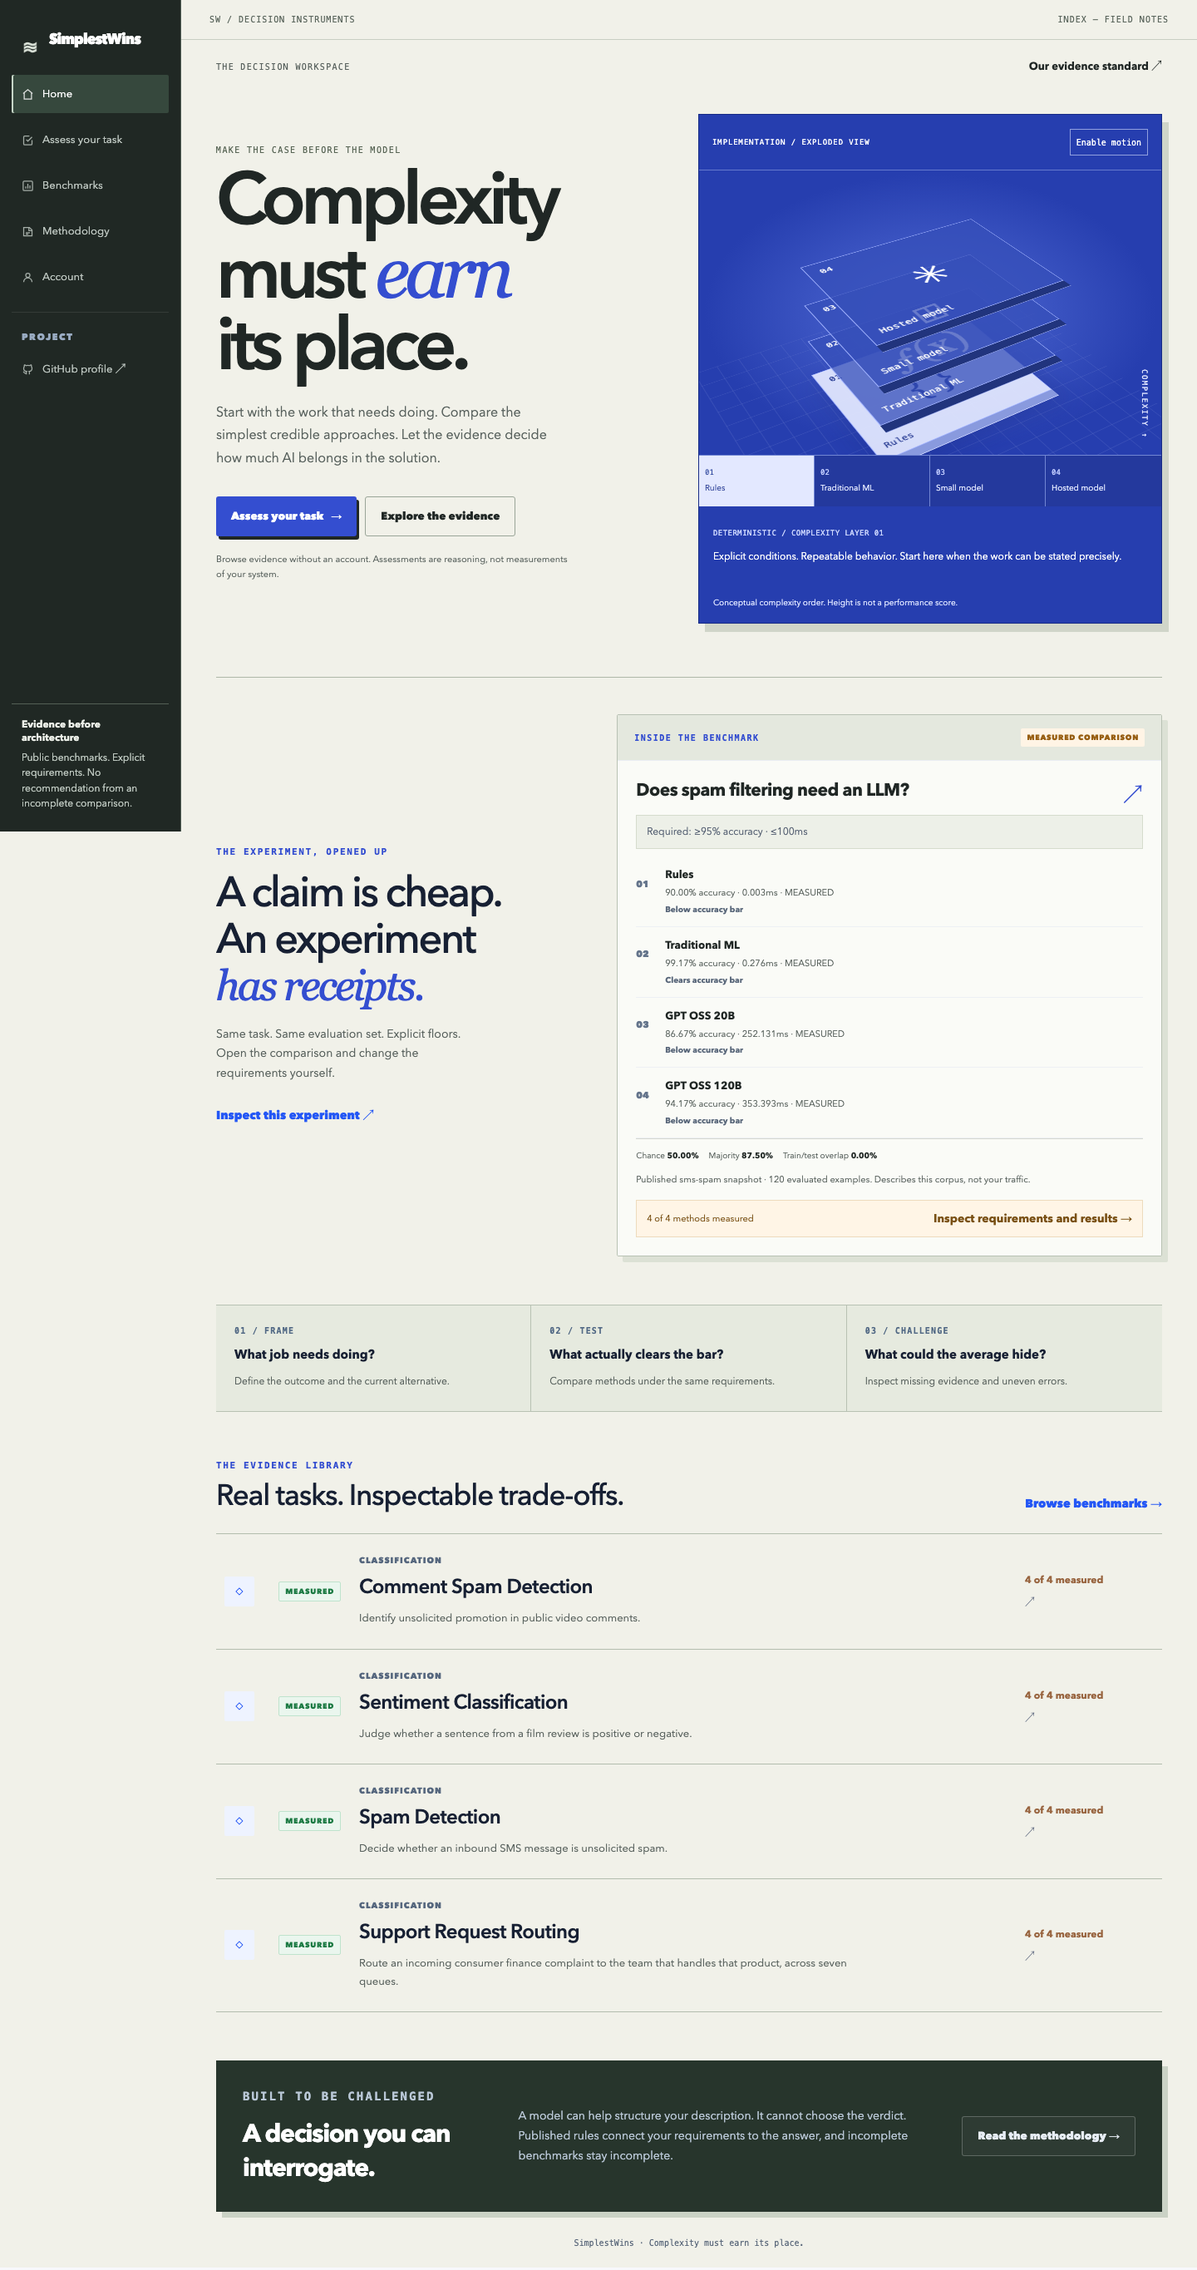
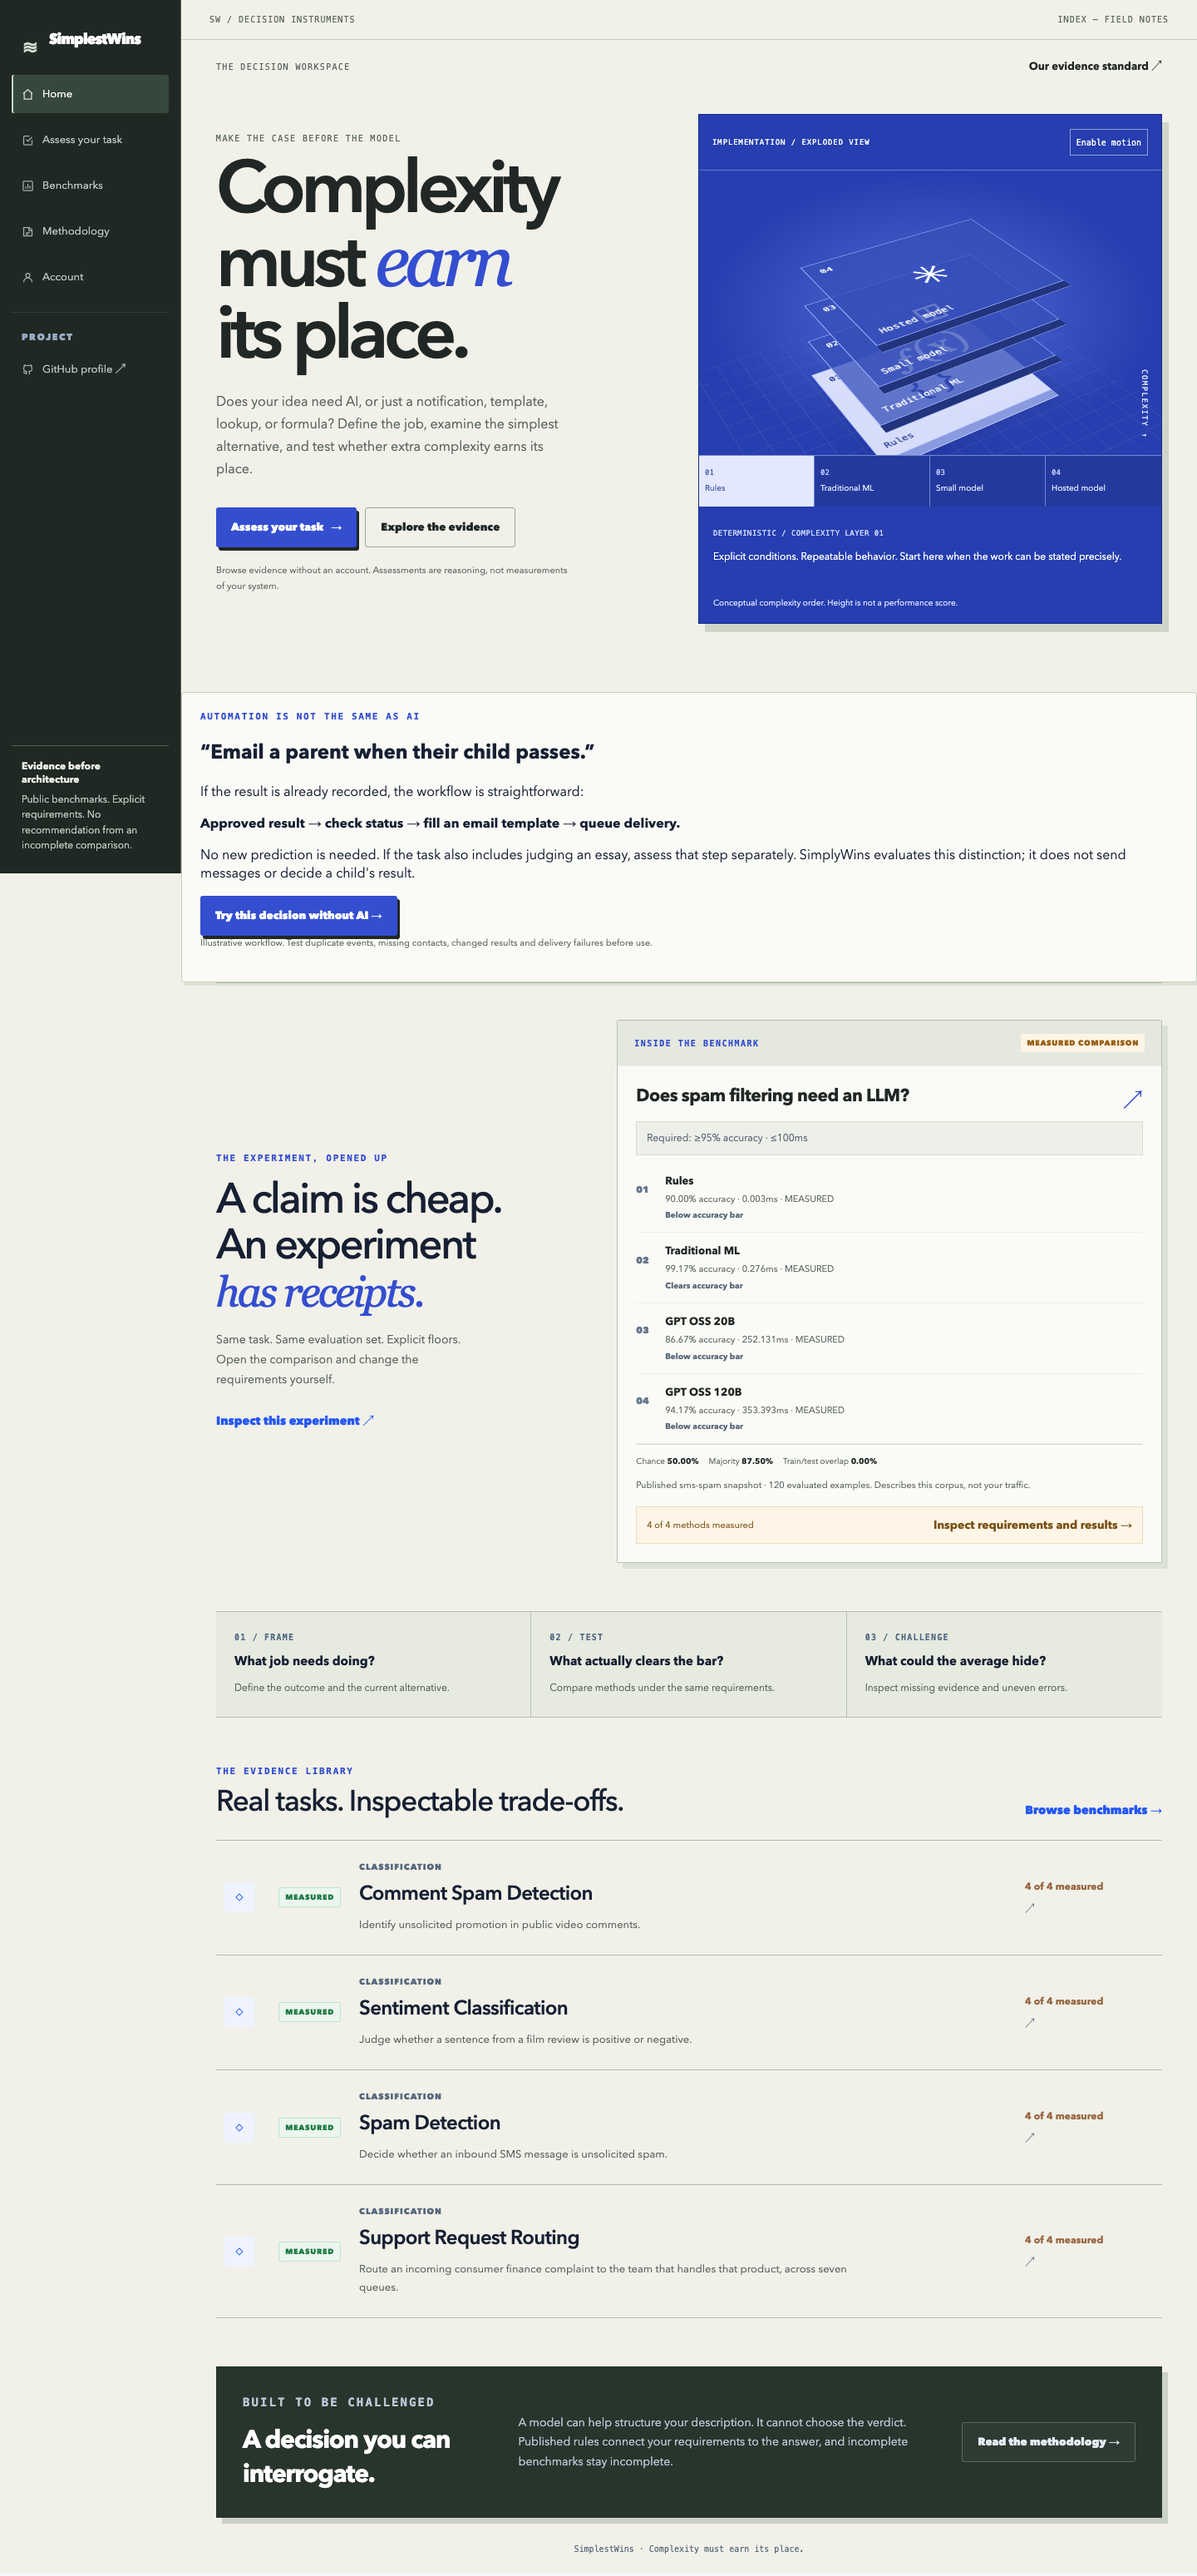
Show the automation-first purpose and verified assessment examples

diff --git a/WHAT_IT_DOES.md b/WHAT_IT_DOES.md
@@ -1,0 +1,64 @@
+# Does the job actually need AI?
+
+SimplyWins is a technology decision aid from an AI strategy project. State the
+outcome, what happens today, available inputs and a known procedure. A published
+rubric suggests the simplest starting approach and what to test. Its output is
+ASSESSED, not a measured guarantee or a business investment approval.
+
+| Job | Starting approach |
+| --- | --- |
+| Deliver an approved pass/fail result | Event, condition, approved template and delivery queue |
+| Retrieve a status by exact order ID | Database lookup, with an explicit not-found case |
+| Apply a stated formula | Ordinary code or a spreadsheet, with boundary tests |
+| Draft novel essay feedback | An AI experiment candidate, with teacher review |
+
+A workflow can combine these steps. Using AI for interpretation does not make
+notifications or record retrieval AI tasks. Keeping an existing working process
+is a baseline to beat. The app assesses the workflow; it does not execute it.
+
+## What changed
+
+Explicit notification, template, lookup and calculation choices prevent prose
+output or missing training labels alone from pushing a task toward an LLM.
+Editable examples work without a provider key. Each assessment explains a
+simpler alternative, assumptions, and baseline validation. Optional AI-assisted
+intake fills the same correctable profile and can still misread a description.
+
+Spam and sentiment benchmarks remain supporting classification experiments.
+Their scores cannot validate email delivery or establish that a visitor needs AI.
+See [benchmark evidence](BENCHMARKS.md) for the completed matched comparisons.
+
+## Research and open-source review
+
+- [Google Rules of ML](https://developers.google.com/machine-learning/guides/rules-of-ml/) motivates starting with a simple baseline.
+- [RAND's AI project study](https://www.rand.org/pubs/research_reports/RRA2680-1.html) motivates understanding the problem, data and workflow before choosing technology.
+- [Hidden Technical Debt in ML Systems](https://proceedings.neurips.cc/paper_files/paper/2015/hash/86df7dcfd896fcaf2674f757a2463eba-Abstract.html) motivates examining system maintenance beyond inference charges.
+- [Microsoft Human-AI Interaction guidance](https://www.microsoft.com/en-us/research/articles/guidelines-for-human-ai-interaction-eighteen-best-practices-for-human-centered-ai-design/) informs visible limits and correction paths.
+- [JsonLogic](https://github.com/jwadhams/json-logic-js), MIT, was independently exercised for a notification condition. [GoRules ZEN](https://github.com/gorules/zen), MIT core, was reviewed as a decision-table candidate. Neither is advertised as an integrated workflow executor.
+
+Course readings and meeting summaries informed the purpose. Private course
+materials are not distributed here. Research informs the design; it does not
+validate our rubric's thresholds or another organization's workflow.
+
+## What was tested
+
+Local CI and authored regression cases cover conventional procedures, missing
+labels, contradictory interpretation needs, format-check versus generation,
+and invariance to irrelevant names. The real key-free API and browser flow were
+checked on desktop and mobile, including ASSESSED labels and no unrelated
+benchmark attached.
+
+Real Groq mapping checks exposed an exact-identifier shape error that was
+corrected. Subsequent checks returned the expected lookup and feedback
+candidates; the notification returned conventional automation. Provider errors
+also occurred. These are smoke checks, not a measured reliability rate.
+
+The independent JsonLogic example checked approved, failed, missing, draft,
+duplicate, unverified-contact and incorrect-type inputs without sending a
+message. These authored cases are functional tests, not a measured corpus.
+
+Next: independent domain reviewers and held-out workflow examples, ambiguous
+hybrid tasks, false AI recommendations, missed useful AI opportunities, actual
+integration and review costs, and production account verification. Rules can
+encode unfair policy; no demographic fairness certification is claimed.
+See [release limitations](STATUS.md).

diff --git a/STATUS.md b/STATUS.md
@@ -4,7 +4,8 @@ Verified September 7, 2026.
 
 ## Ready to showcase
 
-- The refreshed frontend and API are deployed.
+- The automation-first frontend and API are deployed. Notification and exact-lookup examples return conventional automation; novel-feedback returns an AI experiment candidate. These key-free flows passed live desktop and mobile checks.
+- All published prediction artifacts were rechecked; fresh rules and traditional-ML runs reproduced their published accuracy.
 - All four benchmark tasks expose four measured methods through the live API.
 - Saved predictions reproduce every published aggregate accuracy; evaluation IDs, dataset versions, seeds, and floors were checked.
 - Local CI passed: lint, formatting, strict types, migration drift, backend tests, benchmark smoke run, responsive browser checks, and Firestore rules tests.
@@ -15,7 +16,7 @@ Verified September 7, 2026.
 
 1. Supply Firebase's public web configuration to the production frontend. Verify sign-in, saving a provider credential, quoting and running a private experiment, reading its result, and deleting the credential from a real browser session.
 2. Verify persistent storage, backups and restoration, operational monitoring, and error reporting. Test concurrency; long-running experiments need durable jobs and shared rate limits before scaling beyond the current bounded service.
-3. Validate quality on larger, independently held-out and out-of-domain data. Investigate complaint routing's failure to meet the default quality bar. Use protected-group evidence where appropriate before making any demographic fairness claim.
+3. Validate the assessment rubric with independent domain reviewers and held-out workflows, including hybrid tasks and false AI recommendations. Measure actual workflow and review costs. Validate quality on larger, independently held-out and out-of-domain data. Investigate complaint routing's failure to meet the default quality bar. Use protected-group evidence where appropriate before making any demographic fairness claim.
 4. Review remaining development-tool dependency advisories and validate each additional provider path before advertising it as supported in production.
 
 The current evidence is useful for demonstrating the decision process. It does not certify reliability, fairness, or accuracy for a visitor's production traffic.

diff --git a/README.md b/README.md
@@ -2,15 +2,26 @@
 
 ### Complexity must earn its place.
 
-A decision workspace for choosing the simplest technical approach that meets the job: rules, traditional machine learning, or a hosted language model.
+Does this job need AI at all? Compare your current process with notifications, templates, exact lookups, formulas, and learned methods. Get a starting approach, its assumptions, and what to test.
 
 **[Explore the live product](https://simply-wins.vercel.app)** · **[Inspect the benchmark evidence](BENCHMARKS.md)** · **[Download results](benchmark-results.csv)** · **[Release status](STATUS.md)**
 
 ![The SimplyWins decision workspace](images/home.png)
 
+## What the product actually does
+
+“Email a parent when their child passes” does not need AI if an approved result
+is already recorded. A condition, template and delivery queue can handle it.
+Judging an essay is a separate task. SimplyWins helps identify the distinction;
+it does not send emails or make decisions about children.
+
+**[Try the notification example](https://simply-wins.vercel.app/assess.html?example=notification)** · **[Purpose and validation](WHAT_IT_DOES.md)**
+
+![Notification assessment with alternatives and explicit limits](images/assessment.png)
+
 ## Start with the decision
 
-Teams often choose a model before defining the problem. SimplyWins reverses that sequence: describe the work, set quality and operating requirements, then compare measured approaches. A model can help structure a task description; explicit rules determine the recommendation.
+Teams often choose a model before defining the problem. SimplyWins reverses that sequence: describe the work, set quality and operating requirements, then compare measured approaches. A model can help structure a task description; explicit rules produce a provisional assessment. Only complete measured comparisons can support a benchmark recommendation.
 
 ## Product walkthrough
 
